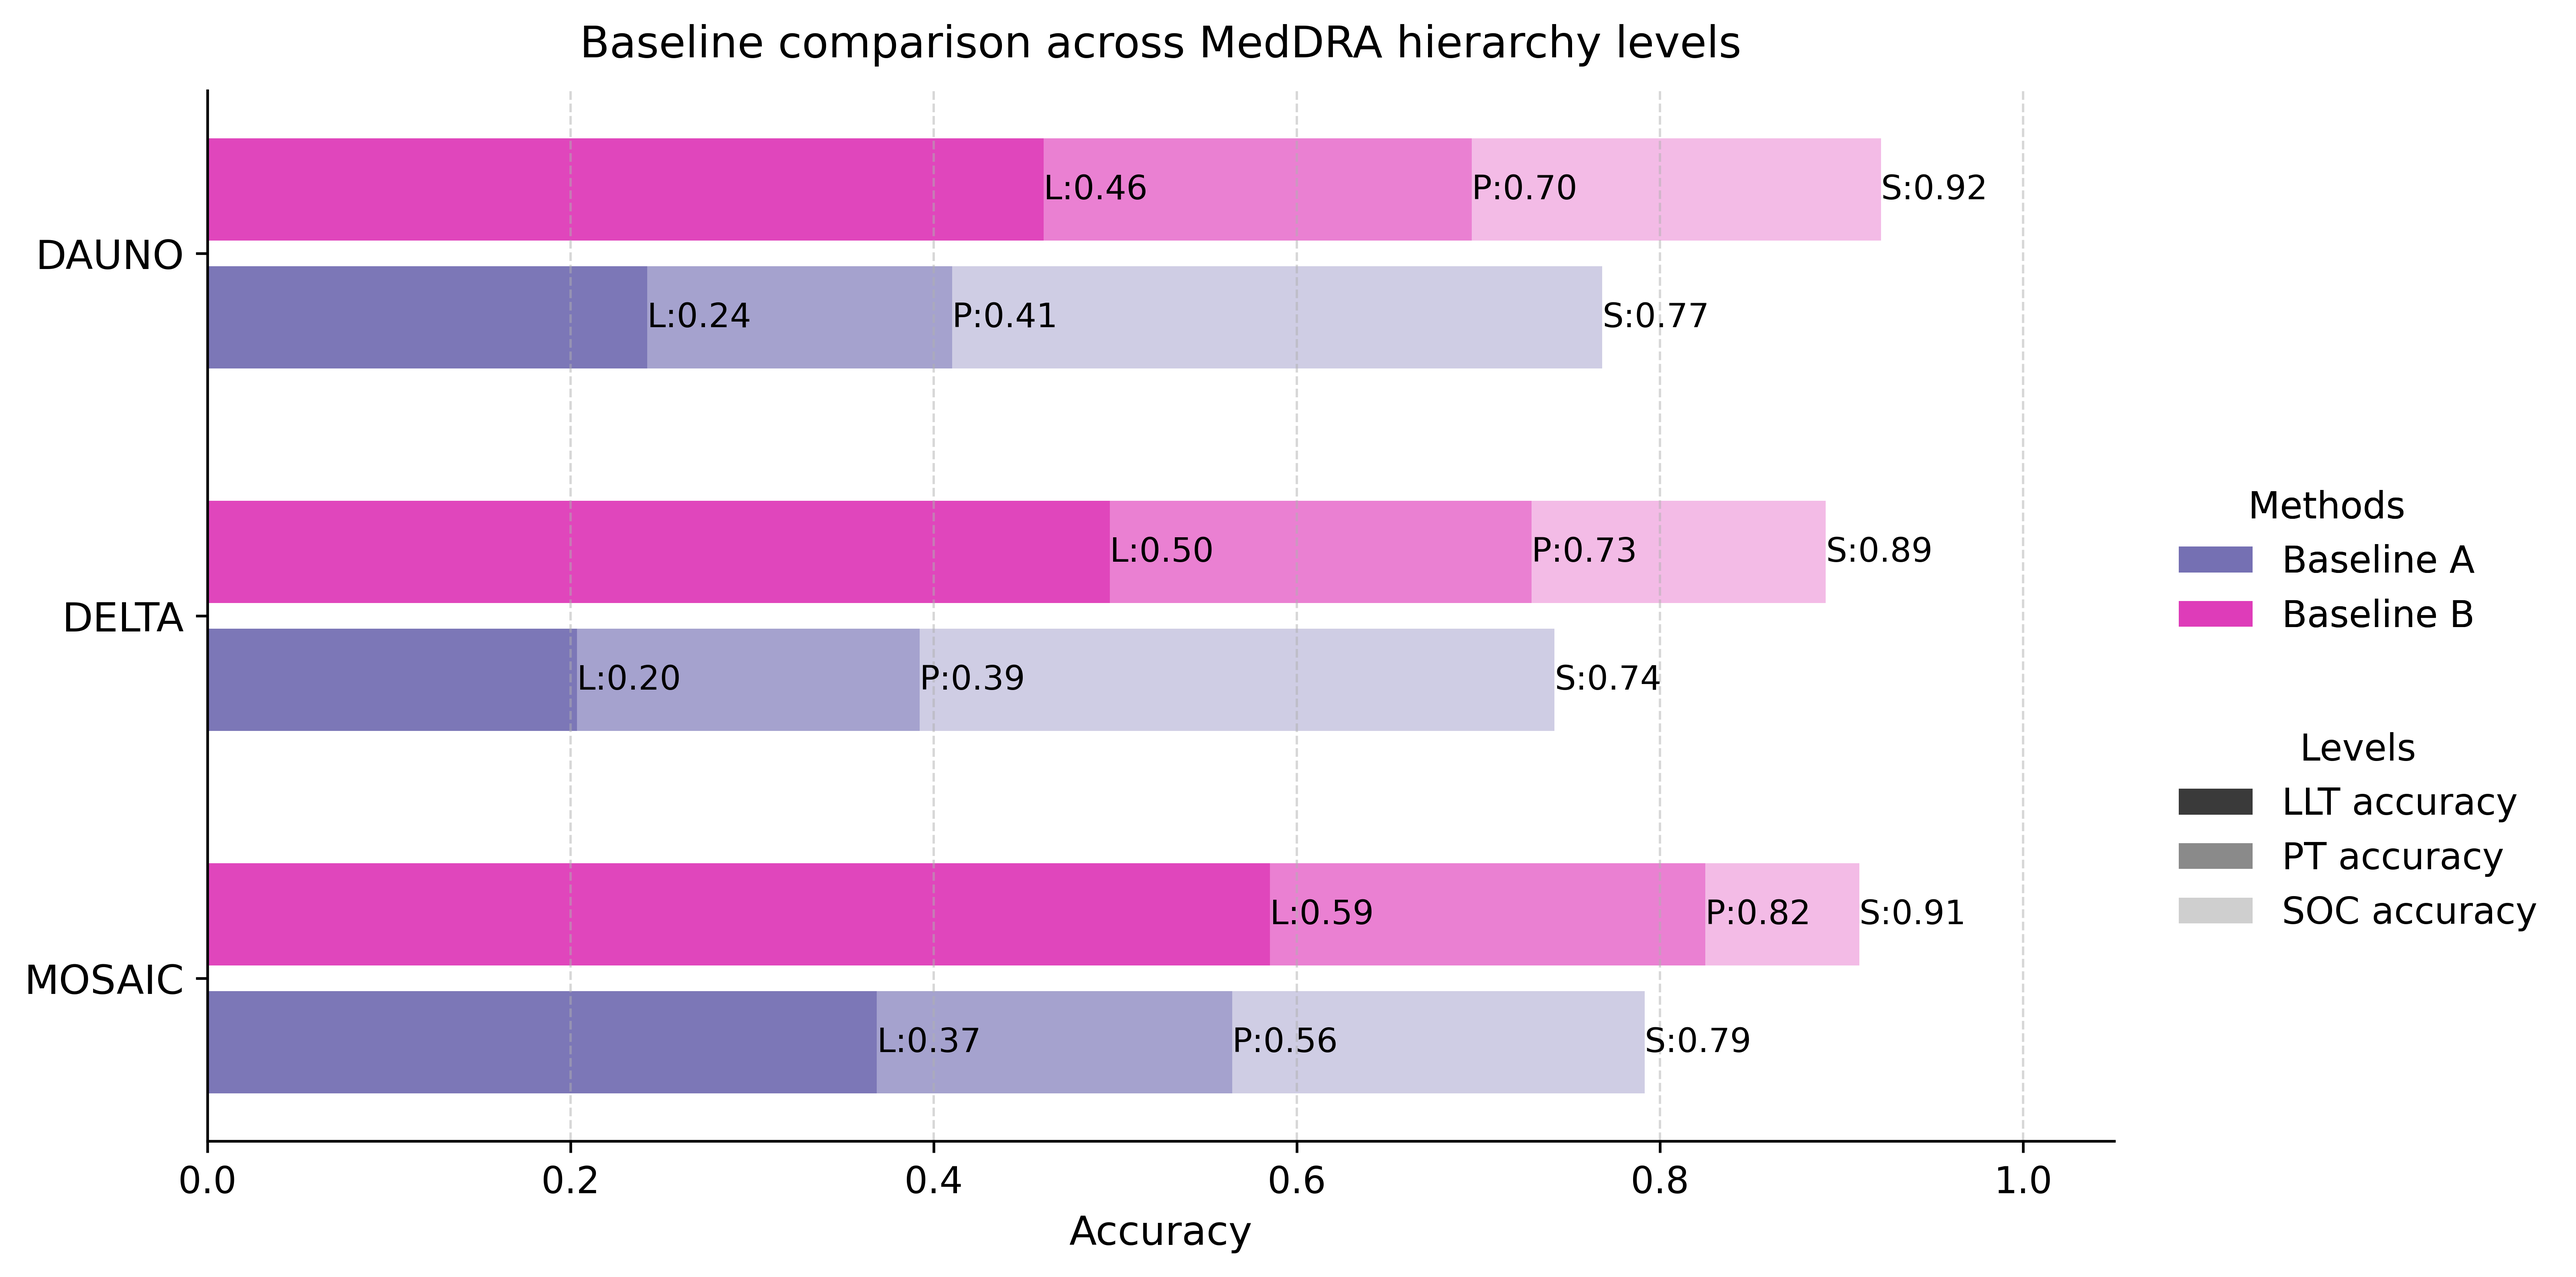
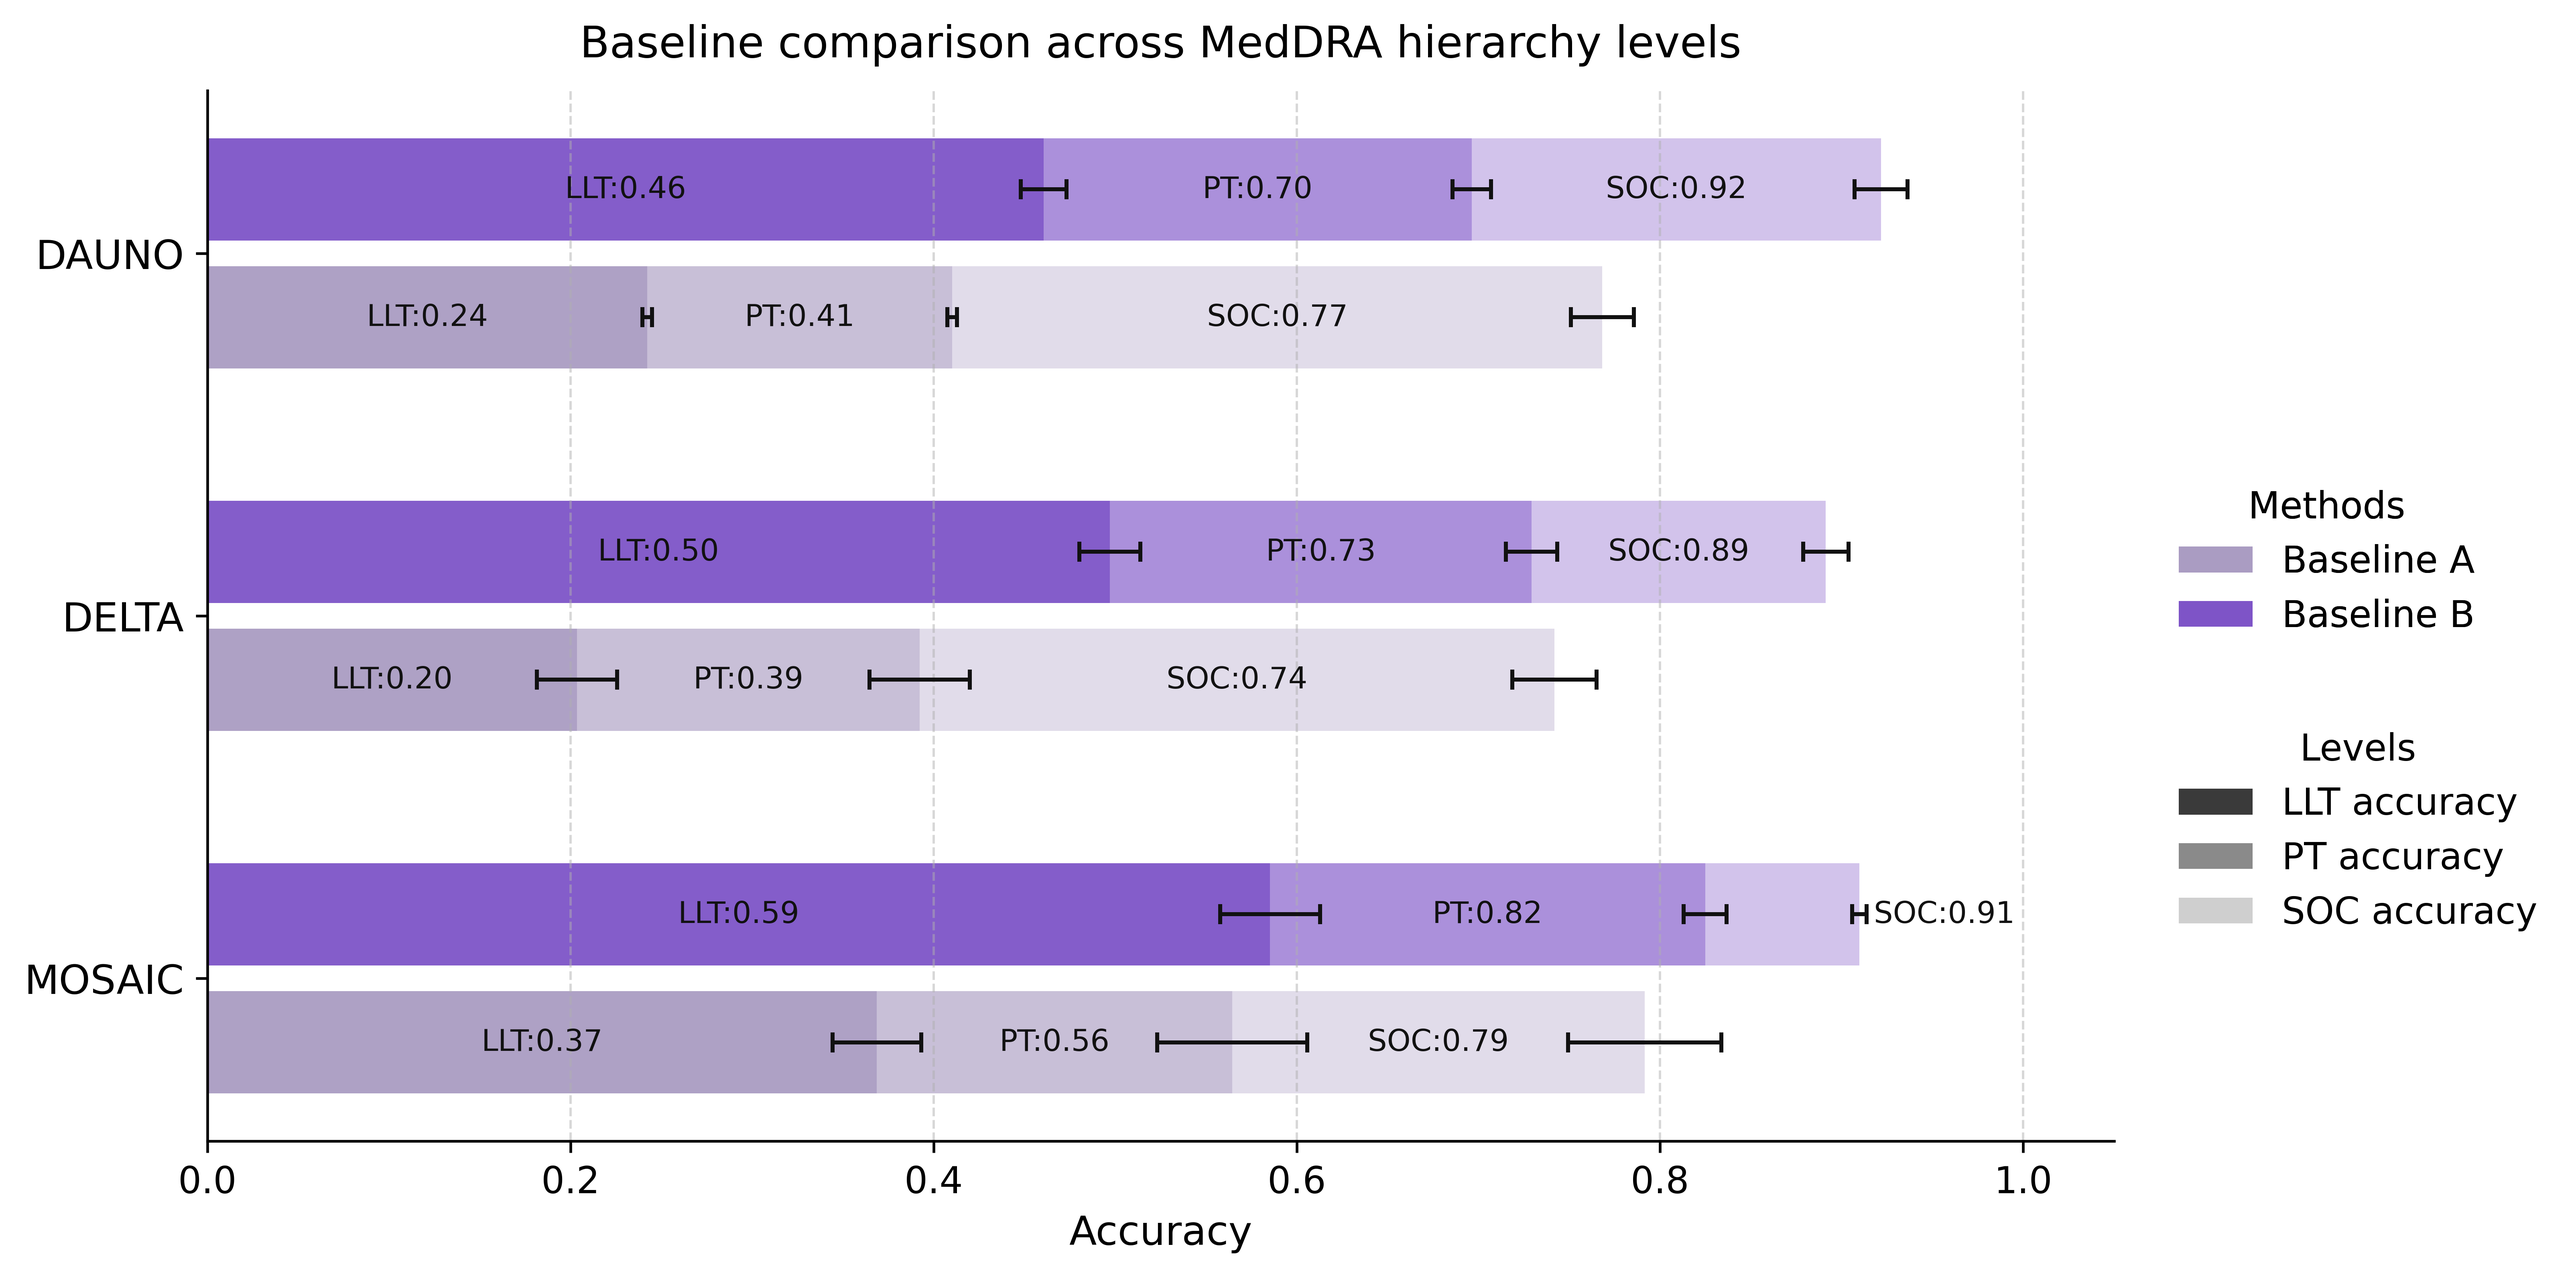
Correction in the display of chart features

diff --git a/aggregates/Accuracy_Plots_BaseA_and_BaseB_horizontal.py b/aggregates/Accuracy_Plots_BaseA_and_BaseB_horizontal.py
@@ -28,8 +28,8 @@ MODELS_DISPLAY = ["Baseline A", "Baseline B"]
 # === Colors (paper-friendly, NOT gray) ===
 # Two base colors (one per baseline) with lightness gradient for LLT/PT/SOC.
 BASELINE_BASE_COLOR = {
-    "Baseline A": "#7570b3",  # purple
-    "Baseline B": "#DE3CB9",  # pink
+    "Baseline A": "#AA9CC2",  # purple
+    "Baseline B": "#7E54C7",  # light purple 
 }
 
 def shade_towards_white(hex_color, t):
@@ -81,7 +81,10 @@ def get_metrics(ds_key, model):
     soc = f(r.get("SOC_acc_option_b__mean"))
     pt  = f(r.get("PT_code_acc__mean"))
     llt = f(r.get("LLT_term_acc_exact__mean"))
-    return soc, pt, llt
+    soc_sd = f(r.get("SOC_acc_option_b__std"))
+    pt_sd  = f(r.get("PT_code_acc__std"))
+    llt_sd = f(r.get("LLT_term_acc_exact__std"))
+    return soc, pt, llt, soc_sd, pt_sd, llt_sd
 
 # ===================== PLOT =====================
 fig, ax = plt.subplots(figsize=(13.2, 5.6))
@@ -97,52 +100,82 @@ offsets = {
 for m in MODELS_DISPLAY:
     ypos = y + offsets[m]
     soc_list, pt_list, llt_list = [], [], []
+    soc_sd_list, pt_sd_list, llt_sd_list = [], [], []
 
     for d in DATASETS_DISPLAY:
-        soc, pt, llt = get_metrics(DS_KEY_MAP[d], m)
+        soc, pt, llt, soc_sd, pt_sd, llt_sd = get_metrics(DS_KEY_MAP[d], m)
         soc_list.append(soc)
         pt_list.append(pt)
         llt_list.append(llt)
+        soc_sd_list.append(soc_sd)
+        pt_sd_list.append(pt_sd)
+        llt_sd_list.append(llt_sd)
 
     soc = np.nan_to_num(np.array(soc_list), nan=0.0)
     pt  = np.nan_to_num(np.array(pt_list),  nan=0.0)
     llt = np.nan_to_num(np.array(llt_list), nan=0.0)
+    soc_sd = np.nan_to_num(np.array(soc_sd_list), nan=0.0)
+    pt_sd  = np.nan_to_num(np.array(pt_sd_list),  nan=0.0)
+    llt_sd = np.nan_to_num(np.array(llt_sd_list), nan=0.0)
 
     colors = baseline_level_colors(m)
+    level_specs = [
+        ("LLT", llt, llt_sd, colors["LLT"]),
+        ("PT",  pt,  pt_sd,  colors["PT"]),
+        ("SOC", soc, soc_sd, colors["SOC"]),
+    ]
 
     for i in range(len(DATASETS_DISPLAY)):
-        levels = [
-            ("LLT", llt[i], colors["LLT"]),
-            ("PT",  pt[i],  colors["PT"]),
-            ("SOC", soc[i], colors["SOC"]),
-        ]
+        levels = [(name, vals[i], color) for name, vals, _, color in level_specs]
         levels_sorted = sorted(levels, key=lambda t: t[1])
+        label_pos = []
 
         prev = 0.0
-        for _, val, color in levels_sorted:
+        for name, val, color in levels_sorted:
             seg = max(val - prev, 0.0)
             if seg > 0:
                 ax.barh(ypos[i], seg, height=H, left=prev, color=color, edgecolor="none")
+                label_pos.append((name, prev, val, prev + seg / 2.0))
             prev = val
 
-        # Labels at boundary values with simple collision avoidance
-        min_dx = 0.03
-        labels = [
-            ("L", llt[i]),
-            ("P", pt[i]),
-            ("S", soc[i]),
-        ]
-        labels_sorted = sorted(labels, key=lambda t: t[1])
-        placed_x = []
-        for tag, x_val in labels_sorted:
-            x_adj = x_val
-            if placed_x and x_adj - placed_x[-1] < min_dx:
-                x_adj = placed_x[-1] + min_dx
-            if x_adj > 1.05:
-                x_adj = 1.05
-            ha = "left" if x_adj < 1.05 else "right"
-            ax.text(x_adj, ypos[i], f"{tag}:{x_val:.2f}", ha=ha, va="center", fontsize=10, clip_on=False)
-            placed_x.append(x_adj)
+        for _, vals, sds, color in level_specs:
+            if sds[i] > 0:
+                ax.errorbar(
+                    vals[i],
+                    ypos[i],
+                    xerr=sds[i],
+                    fmt="none",
+                    ecolor="#111111",
+                    elinewidth=1.2,
+                    capsize=3,
+                    capthick=1.2,
+                    zorder=3,
+                )
+
+        # Put each level label at the center of its own drawn segment.
+        soc_min_width_for_inside_label = 0.09
+        soc_outside_pad = 0.008
+        for name, x_start, x_end, x_mid in label_pos:
+            tag = {"LLT": "LLT", "PT": "PT", "SOC": "SOC"}[name]
+            x_text = x_mid
+            ha = "center"
+
+            # If SOC segment is too narrow, place label just outside to avoid overlap.
+            if name == "SOC" and (x_end - x_start) < soc_min_width_for_inside_label:
+                x_text = min(x_end + soc_outside_pad, 1.045)
+                ha = "left"
+
+            ax.text(
+                x_text,
+                ypos[i],
+                f"{tag}:{x_end:.2f}",
+                ha=ha,
+                va="center",
+                fontsize=9,
+                color="#111111",
+                clip_on=False,
+                zorder=4,
+            )
 
 # Axis formatting
 ax.set_yticks(y)

diff --git a/aggregates/manual_vs_rag_vs_zeroshot_stacked_horizontal.py b/aggregates/manual_vs_rag_vs_zeroshot_stacked_horizontal.py
@@ -402,57 +402,81 @@ def plot(df: pd.DataFrame):
         llt = df[f"LLT_{key}_mean"].values
         pt  = df[f"PT_{key}_mean"].values
         soc = df[f"SOC_{key}_mean"].values
+        llt_sd = df[f"LLT_{key}_std"].values
+        pt_sd  = df[f"PT_{key}_std"].values
+        soc_sd = df[f"SOC_{key}_std"].values
 
         llt = np.nan_to_num(llt, nan=0.0)
         pt  = np.nan_to_num(pt,  nan=0.0)
         soc = np.nan_to_num(soc, nan=0.0)
+        llt_sd = np.nan_to_num(llt_sd, nan=0.0)
+        pt_sd  = np.nan_to_num(pt_sd,  nan=0.0)
+        soc_sd = np.nan_to_num(soc_sd, nan=0.0)
 
         # Stacked horizontal segments up to boundary values (non-additive)
         for i in range(len(llt)):
             # Manual: show LLT only. NewRAG/Zero-shot: show all levels.
             if key == "manual":
                 levels = [
-                    ("LLT", llt[i], shade_towards_white(base_color, shades["LLT"])),
+                    ("LLT", llt[i], llt_sd[i], shade_towards_white(base_color, shades["LLT"])),
                 ]
             else:
                 levels = [
-                    ("LLT", llt[i], shade_towards_white(base_color, shades["LLT"])),
-                    ("PT",  pt[i],  shade_towards_white(base_color, shades["PT"])),
-                    ("SOC", soc[i], shade_towards_white(base_color, shades["SOC"])),
+                    ("LLT", llt[i], llt_sd[i], shade_towards_white(base_color, shades["LLT"])),
+                    ("PT",  pt[i],  pt_sd[i],  shade_towards_white(base_color, shades["PT"])),
+                    ("SOC", soc[i], soc_sd[i], shade_towards_white(base_color, shades["SOC"])),
                 ]
             levels_sorted = sorted(levels, key=lambda t: t[1])
+            label_pos = []
 
             prev = 0.0
-            for _, val, color in levels_sorted:
+            for tag, val, _, color in levels_sorted:
                 seg = max(val - prev, 0.0)
                 if seg > 0:
                     ax.barh(
                         y[i] + dy, seg, height=bar_h,
                         left=prev, color=color, linewidth=0
                     )
+                    label_pos.append((tag, prev, val, prev + seg / 2.0))
                 prev = val
 
-            # Labels centered within each segment
-            y_offsets = {"LLT": -0.06, "PT": 0.00, "SOC": 0.06}
-            segment_map = {}
-            prev = 0.0
-            for tag, val, _ in levels_sorted:
-                segment_map[tag] = (prev, val)
-                prev = val
+            for _, val, sd, _ in levels:
+                if sd > 0:
+                    ax.errorbar(
+                        val,
+                        y[i] + dy,
+                        xerr=sd,
+                        fmt="none",
+                        ecolor="#111111",
+                        elinewidth=1.2,
+                        capsize=3,
+                        capthick=1.2,
+                        zorder=3,
+                    )
 
-            if key == "manual":
-                start, end = segment_map.get("LLT", (0.0, 0.0))
-                x_center = (start + end) / 2.0
-                y_adj = y[i] + dy + y_offsets["LLT"]
-                ax.text(x_center, y_adj, f"LLT:{end:.2f}",
-                        ha="center", va="center", fontsize=10, color="black", clip_on=False)
-            else:
-                for tag in ["LLT", "PT", "SOC"]:
-                    start, end = segment_map.get(tag, (0.0, 0.0))
-                    x_center = (start + end) / 2.0
-                    y_adj = y[i] + dy + y_offsets[tag]
-                    ax.text(x_center, y_adj, f"{tag}:{end:.2f}",
-                            ha="center", va="center", fontsize=10, color="black", clip_on=False)
+            soc_min_width_for_inside_label = 0.09
+            soc_outside_pad = 0.008
+            for tag, x_start, x_end, x_mid in label_pos:
+                short_tag = {"LLT": "L", "PT": "P", "SOC": "S"}[tag]
+                x_text = x_mid
+                ha = "center"
+
+                # If SOC segment is too narrow, place label just outside to avoid overlap.
+                if tag == "SOC" and (x_end - x_start) < soc_min_width_for_inside_label:
+                    x_text = min(x_end + soc_outside_pad, 1.045)
+                    ha = "left"
+
+                ax.text(
+                    x_text,
+                    y[i] + dy,
+                    f"{short_tag}:{x_end:.2f}",
+                    ha=ha,
+                    va="center",
+                    fontsize=9,
+                    color="#111111",
+                    clip_on=False,
+                    zorder=4,
+                )
 
     ax.set_yticks(y)
     ax.set_yticklabels(df["dataset"].tolist(), fontsize=12)

diff --git a/aggregates/manual_vs_rag_vs_zeroshot_all_LLT_PT_SOC_agg.py b/aggregates/manual_vs_rag_vs_zeroshot_all_LLT_PT_SOC_agg.py
@@ -76,7 +76,7 @@ FUZZY_CUTOFF = 94
 DATASET_ORDER = ["Mosaic", "Delta", "Dauno"]
 
 SCRIPT_DIR = Path(__file__).resolve().parent
-OUT_FIG_PNG = SCRIPT_DIR / "manual_vs_rag_vs_zeroshot_stacked_horizontal_newrag_from_agg.png"
+OUT_FIG_PNG = SCRIPT_DIR / "manual_vs_rag_vs_zeroshot_all_LLT_PT_SOC_agg.png"
 
 
 # =========================
@@ -402,44 +402,68 @@ def plot(df: pd.DataFrame):
         llt = df[f"LLT_{key}_mean"].values
         pt  = df[f"PT_{key}_mean"].values
         soc = df[f"SOC_{key}_mean"].values
+        llt_sd = df[f"LLT_{key}_std"].values
+        pt_sd  = df[f"PT_{key}_std"].values
+        soc_sd = df[f"SOC_{key}_std"].values
 
         llt = np.nan_to_num(llt, nan=0.0)
         pt  = np.nan_to_num(pt,  nan=0.0)
         soc = np.nan_to_num(soc, nan=0.0)
+        llt_sd = np.nan_to_num(llt_sd, nan=0.0)
+        pt_sd  = np.nan_to_num(pt_sd,  nan=0.0)
+        soc_sd = np.nan_to_num(soc_sd, nan=0.0)
+
+        level_specs = [
+            ("LLT", llt, llt_sd, shade_towards_white(base_color, shades["LLT"])),
+            ("PT",  pt,  pt_sd,  shade_towards_white(base_color, shades["PT"])),
+            ("SOC", soc, soc_sd, shade_towards_white(base_color, shades["SOC"])),
+        ]
 
         # Stacked horizontal segments up to boundary values (non-additive)
         for i in range(len(llt)):
-            levels = [
-                ("LLT", llt[i], shade_towards_white(base_color, shades["LLT"])),
-                ("PT",  pt[i],  shade_towards_white(base_color, shades["PT"])),
-                ("SOC", soc[i], shade_towards_white(base_color, shades["SOC"])),
-            ]
+            levels = [(name, vals[i], color) for name, vals, _, color in level_specs]
             levels_sorted = sorted(levels, key=lambda t: t[1])
+            label_pos = []
 
             prev = 0.0
-            for _, val, color in levels_sorted:
+            for name, val, color in levels_sorted:
                 seg = max(val - prev, 0.0)
                 if seg > 0:
                     ax.barh(
                         y[i] + dy, seg, height=bar_h,
                         left=prev, color=color, linewidth=0
                     )
+                    label_pos.append((name, prev + seg / 2.0, val))
                 prev = val
+
+            for _, vals, sds, _ in level_specs:
+                if sds[i] > 0:
+                    ax.errorbar(
+                        vals[i],
+                        y[i] + dy,
+                        xerr=sds[i],
+                        fmt="none",
+                        ecolor="#111111",
+                        elinewidth=1.2,
+                        capsize=3,
+                        capthick=1.2,
+                        zorder=3,
+                    )
 
             # Labels centered within each segment
-            y_offsets = {"LLT": -0.06, "PT": 0.00, "SOC": 0.06}
-            segment_map = {}
-            prev = 0.0
-            for tag, val, _ in levels_sorted:
-                segment_map[tag] = (prev, val)
-                prev = val
-
-            for tag in ["LLT", "PT", "SOC"]:
-                start, end = segment_map.get(tag, (0.0, 0.0))
-                x_center = (start + end) / 2.0
-                y_adj = y[i] + dy + y_offsets[tag]
-                ax.text(x_center, y_adj, f"{tag}:{end:.2f}",
-                        ha="center", va="center", fontsize=10, color="black", clip_on=False)
+            for tag, x_mid, x_val in label_pos:
+                short_tag = {"LLT": "L", "PT": "P", "SOC": "S"}[tag]
+                ax.text(
+                    x_mid,
+                    y[i] + dy,
+                    f"{short_tag}:{x_val:.2f}",
+                    ha="center",
+                    va="center",
+                    fontsize=9,
+                    color="#111111",
+                    clip_on=True,
+                    zorder=4,
+                )
 
     ax.set_yticks(y)
     ax.set_yticklabels(df["dataset"].tolist(), fontsize=12)
